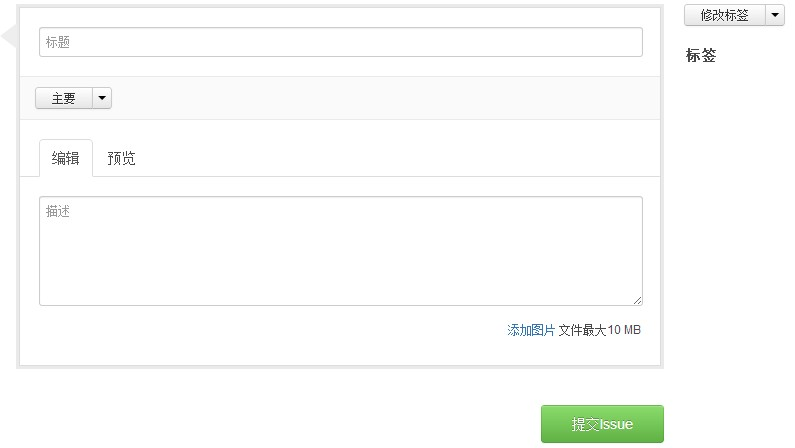
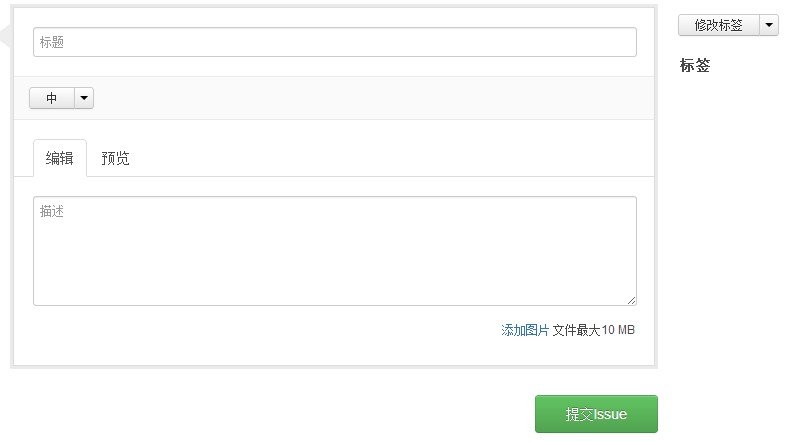
更新图片和细节

diff --git a/FAQ_6_1.md b/FAQ_6_1.md
@@ -2,19 +2,19 @@
 
 CODE是国内最大的IT技术社区CSDN旗下的代码托管与社交编程平台。
 
-### 为什么做CODE？
+**为什么做CODE？**
 
 作为国内老牌的IT技术服务社区，CSDN深知IT企业及开发人员的需求与痛点，并致力于持续不断的为业界提供基于IT技术的知识服务、技术服务、人才服务等。其中，CSDN媒体网站、《程序员》杂志、CSDN社区、CSTO外包平台、庞果网等平台已经深得广大用户的喜爱。
 
 然而，纵观国内开发市场，能够为国内开发者提供完整的技术服务的平台凤毛麟角，国内软件开发技术力量分散、开发人员之间缺乏协作，项目管理混乱仍是普遍存在的现象。以开源软件为例，国内开源软件的市场环境与发展水平与国外相比还有相当的差距，存在软件质量不高、缺乏持续的维护和更新、缺乏重量级软件等问题，开源精神在开发者中尚未得到广泛的普及。
 
-这种情况下，CSDN决定推出CODE平台，以代码托管与社交编程为主要切入点，搭建起开发者间沟通协作的桥梁，为开发者提供一个纯技术的交流环境，努力培养开发者使用和维护开源软件的习惯、倡导开放协作的精神、以期促进开源文化、改善国内软件开发环境。
+这种情况下，CSDN决定推出CODE平台，以代码托管与社交编程为主要切入点，力求搭建起开发者间沟通协作的桥梁，为开发者提供一个纯技术的交流环境，努力培养开发者使用和维护开源软件的习惯、倡导开放协作的精神、以期促进开源文化、改善国内软件开发环境。
 
-此外，CODE业务平台所使用的git技术和社交编程理念在业界代表先进的技术和观念，这一技术和理念的推广将有助于革新软件开发的传统思路，提升我国软件工程水平。
+此外，CODE业务平台所使用的git技术和社交编程理念在业界代表先进的技术和理念，这一技术和理念的推广将有助于革新软件开发的传统思路，提升我国软件工程水平。
 
-### CODE的目标
+**CODE的目标**
 
-凭借CSDN庞大的会员基础和广泛的业界影响力，CODE业务平台致力于成为国内领先的代码托管及社交编程平台，汇聚国内开源项目，聚集优秀开发者和IT企业，让国内拥有能和Github、Sourceforge、Google CODE比肩的技术平台。
+凭借CSDN庞大的会员基础和广泛的业界影响力，CODE业务平台致力于成为国内领先的代码托管及社交编程平台，汇聚国内开源项目，聚集优秀开发者和IT企业，让国内拥有能和Github、Sourceforge、Google Code比肩的技术平台。
 
 CODE业务平台还将与国内高校广泛合作，为在校学生提供业界最佳实践平台，为教学提供更便利的环境，力争成为全国高教系统内使用最广泛的教学项目托管平台。
 

diff --git a/FAQ_1_1.md b/FAQ_1_1.md
@@ -6,10 +6,12 @@
 
 **3.论坛：**CODE用户们进行畅所欲言交流的地方。您可以在此发表对CODE平台的看法、分享项目经验、讲述您与CODE平台间的故事，与其他会员进行深入互动等等。
 
-**4.帮助：**如您在使用过程中有任何疑问，可在此进行查看。
+**4.反馈：**您在使用CODE平台过程中有任何反馈（报bug，提建议等）都可以点击导航栏的反馈，进入CSDN_Code/code_support项目提交Issue，我们将会尽快处理。
 
-**5.搜索：**支持项目搜索和用户搜索。
+**5.帮助：**帮助频道列出了您在使用CODE平台时可能遇到的常见问题。您还可以在此学习《progit》中文版。
 
-**5.通知：**点击“通知”图标，可查看来自系统的各项通知，包括“系统通知”、“项目成员”、“关注通知”、“合并请求”、“提交”、“Issue”等。
+**6.搜索：**支持项目搜索和用户搜索。
 
-**6.当前用户：**点击导航栏上的用户头像，可以进入用户账号设置或者快速创建项目。
+**7.通知：**点击“通知”图标，可查看来自系统的各项通知，包括“系统通知”、“邀请通知”、“关注通知”、“合并请求”、“提交”、“Issue”等。
+
+**8.当前用户：**点击导航栏上的用户头像，可以进入用户账号设置或者快速创建项目。点击用户名，可以进入您的“用户控制面板”。

diff --git a/FAQ_3_4.md b/FAQ_3_4.md
@@ -2,15 +2,10 @@
 
 在项目主页点击“网络图表”可以图形化的方式查看当前项目的所有关键节点。
 
-这些关键节点包括：该项目的分支情况、提交记录、合并请求处理、所有的派生者等等。
+这些关键节点包括：该项目的派生记录、提交记录、合并请求处理等等。
 
-在一个节点处悬停鼠标，将会出现一个浮层，上面注明了在该节点处操作的会员名称，以及他对该操作的说明文字。
+在一个节点处悬停鼠标，将会出现一个浮层，上面注明了在该节点处操作的用户名称，以及他对该操作的说明文字。
 
-图表右侧的说明文字是对主分支上所有操作的介绍。
+![alt 网络图表](/images/FAQ_3_4_1.jpg "网络图表")
 
-
-
-
-
-
-
+图表中节点右侧的说明文字是对当前操作的简要介绍。

diff --git a/FAQ_3_8.md b/FAQ_3_8.md
@@ -8,6 +8,6 @@ Issue是对一个项目的备注信息，它可以包括待完成的任务、bug
 
 ![alt Issue标签](/images/FAQ_3_8_1.jpg "Issue标签")
 
-在弹出的新页面中，您可以填写该Issue的标题、描述，并选择其紧急程度。紧急程度包括“轻微、主要、严重”三个级别。项目管理者会根据紧急程度来处理或者分配给他人处理该条Issue。
+在弹出的新页面中，您可以填写该Issue的标题、描述，并选择其紧急程度。紧急程度包括“低、中、高”三个级别。项目管理者会根据紧急程度来处理或者分配给他人处理该条Issue。
 
 为了给Issue分类，您还可以通过点击文本框右侧的“修改标签”按钮，为该Issue选择合适的标签。关于Issue标签，请见[Issue标签管理](/help/CSDN_Code/code_support/FAQ_4_4 "Issue标签")。

diff --git a/FAQ_0_1.md b/FAQ_0_1.md
@@ -11,7 +11,7 @@ CODE是CSDN面向广大中国软件开发者提供的一个在线代码托管和
 **2. 社交编程：**任何人都可以派生他人的开源代码到自己名下，然后对派生代码进行修改、优化后向原作者或其他派生者提交合并请求，完成合作编程。
 
 
-**3. 在线协作：**使用CODE平台进行分布式开发，协同完成一个项目的开发。我们提供项目工单、项目wiki、网络图表、项目评论等功能帮您了解和跟踪开发进度。
+**3. 在线协作：**使用CODE平台进行分布式开发，协同完成一个项目的开发。我们提供项目Issue、项目wiki、网络图表等功能帮您了解和跟踪开发进度。
 
 
 **4. 项目管理：**新版本库即是新项目，开发者可以对项目进行管理，建立分支、添加协作者、处理合并请求等等。

diff --git a/FAQ_1_2.md b/FAQ_1_2.md
@@ -2,7 +2,7 @@
 
 进入某个用户的主页，可以通过如下方式：
 - 点击任一用户名
-- 在地址栏直接输入：code.csdn.net / <CSDN id> 进入
+- 在地址栏直接输入：code.csdn.net/用户名  
 
 用户点击右上角头像即可进入自己主页。
 
@@ -18,7 +18,7 @@
 
 **3.活跃度**
 
-1）显示当前用户在一定时间范围内提交、发出合并请求、完成合并请求、发出工单、完成工单的情况。
+1）显示当前用户在一定时间范围内提交、发出合并请求、完成合并请求、发出Issue、完成Issue的情况。
 
 2）可按照时间范围进行筛选查看。
 
@@ -33,4 +33,3 @@
 **6.关注**
 
 显示当前用户所关注的其他用户列表。
-

diff --git a/FAQ_3_7.md b/FAQ_3_7.md
@@ -1,6 +1,10 @@
 ## 称赞
 
-如果你觉得某个项目不错，可以在该项目的主页点击右上角的“称赞”按钮表达您的欣赏。一个用户对某个项目只能称赞一次。同时，用户也可以取消称赞。
+如果你觉得某个项目不错，可以在该项目的主页点击右上角的“称赞”按钮表达您的欣赏。
+
+一个用户对某个项目只能称赞一次。
+
+用户也可以取消对某个项目的称赞。
 
 被称赞次数多的项目将有可能被选入“发现”频道的“精选项目”中。
 

diff --git a/FAQ_2_1.md b/FAQ_2_1.md
@@ -25,3 +25,11 @@
 
  
 （6）创建项目时填写的所有内容均可在“项目设置”中修改。
+
+###导入项目
+
+如果您在其他网站（如GitHub，Google code 等）已经存在一个Git托管的项目，可以直接将其导入。
+
+点击“创建新项目”按钮，进入项目创建页，点击左侧栏的“导入项目”，填写已有项目的url和项目名称（一般默认为原有名称）、项目描述、项目主页等信息后，点击“创建”即可。
+
+![alt 导入项目](/images/FAQ_2_1_6.jpg "导入项目")

diff --git a/FAQ_5_1.md b/FAQ_5_1.md
@@ -1,6 +1,6 @@
 ## 个人资料设置
 
-导航栏右上方您的用户名处，当鼠标滑过时会出现一个下拉菜单。点击其中的“账号设置”可以进入您的个人信息管理页面。
+导航栏右上方您的用户名处，当鼠标滑过时会出现一个下拉菜单。点击其中的“账号设置”可以进入您的账户管理页面。
 
 在个人信息页，您可以修改您的姓名、公开邮箱（对CODE其他会员展示的邮箱）、微博、QQ、个人主页、公司/组织，个人介绍等信息。
 

diff --git a/FAQ_1_3.md b/FAQ_1_3.md
@@ -1,6 +1,6 @@
 ## 用户控制面板
 
-用户登录后进入的第一个页面即为您的“用户控制面板”。此外，在登录状态下，用户每次点击“CODE” logo均回到个人控制面板。
+用户登录后进入的第一个页面即为您的“用户控制面板”。此外，在登录状态下，用户每次点击“CODE” logo或导航栏右上角的个人用户名均会回到个人控制面板。
 
 在控制面板中，显示了所有与此用户相关的信息，包括以下几项：
 

diff --git a/FAQ_5_3.md b/FAQ_5_3.md
@@ -1,6 +1,6 @@
 ## 通知设置
 
-在个人信息设置页面，点击左侧的“通知设置”标签，可以设置您接收CODE平台通知的方式。
+在账户设置页面，点击左侧的“通知设置”标签，可以设置您接收CODE平台通知的方式。
 
 通知提醒方式分站内通知、邮件通知两种。
 除官方通知和项目邀请通知默认使用站内通知和邮件通知，且不可更改外，其他通知您均可设置接收方式及是否接收。

diff --git a/FAQ_3_6.md b/FAQ_3_6.md
@@ -4,7 +4,7 @@ CODE引入社交机制，用户在CODE平台除了关注项目动态，还可以
 
 点击您感兴趣的用户名进入该用户的个人主页，在页面左侧用户头像和基本信息下方，点击“关注”按钮即可关注此人。
 
-您也可以随时对该用户取消关注。
-
 关注成功后，该用户的所有动态将显示在您的用户控制面板“动态”分类——“人的动态”中。
+
+您也可以随时对该用户取消关注。
 
